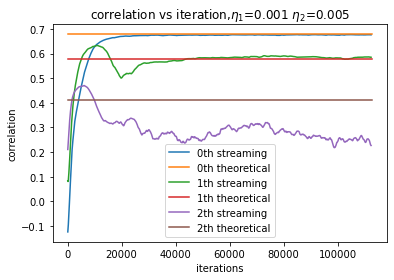
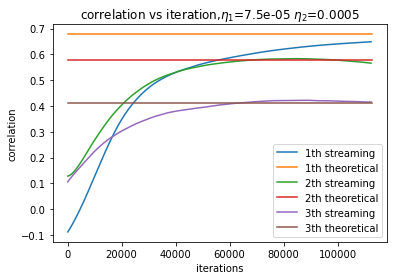
Corrected some plots

diff --git a/geneig.py b/geneig.py
@@ -9,7 +9,7 @@ import numpy as np
 def geneig(X,Y,n,eta_1=0.0005,eta_2=0.005):
     
     length,m = X.shape
-    
+    np.random.seed(999999999)
     V = np.random.randn(m*2,n)
     V,_ = np.linalg.qr(V, mode='reduced')
     U = np.random.randn(m*2,n)
@@ -28,6 +28,67 @@ def geneig(X,Y,n,eta_1=0.0005,eta_2=0.005):
             c11 = np.outer(x,x)
             c22 = np.outer(y,y)
     
+            #initialize A
+            A = np.zeros((m*2,m*2))
+            A[:m,m:] = c12
+            A[m:,:m] = c12.T
+            
+            #initialize B
+            B = np.zeros((m*2,m*2))
+            B[0:m,0:m] = c11
+            B[m:m*2,m:m*2] = c22
+            
+            #two-step process
+            U -= eta_2*(B@U-A@V)
+            V += eta_1*U
+            '''
+            V,r = np.linalg.qr(V, mode='reduced')
+            V = V*np.sign(np.diagonal(r))#avoid switching sign in QR
+            '''
+            a = V[:m]
+            a,r = np.linalg.qr(a, mode='reduced')
+            a = a*np.sign(np.diagonal(r))#avoid switching sign in QR
+            
+            b = V[m:]
+            b,r = np.linalg.qr(b, mode='reduced')
+            b = b*np.sign(np.diagonal(r))#avoid switching sign in QR
+            V[:m] = a
+            V[m:] = b
+            
+        
+        a = V[:m]
+        b = V[m:]
+        X_s = X@a
+        Y_s = Y@b
+        
+        for k in range(n):
+            corr_mat[j,k] = np.corrcoef(X_s.T,Y_s.T)[n+k,k]
+
+    return a,b,corr_mat
+
+def geneig_modified(X,Y,n,eta_1=0.0005,eta_2=0.005):
+    
+    length,m = X.shape
+    np.random.seed(999999999)
+    V = np.random.randn(m*2,n)
+    V,_ = np.linalg.qr(V, mode='reduced')
+    U = np.random.randn(m*2,n)
+    U,_ = np.linalg.qr(U, mode='reduced')
+    
+    corr_mat = np.zeros((length//100-4,n))
+    
+    for j in range(length//100-4):
+        for i in range(100):
+            
+            ind = j*100+i
+            x = X[ind:ind+10,:]
+            y = Y[ind:ind+10,:]
+            
+            #cov matrix
+            c12 = x.T@y/10
+            c11 = x.T@x/10
+            c22 = y.T@y/10
+            
             #initialize A
             A = np.zeros((m*2,m*2))
             A[:m,m:] = c12

diff --git a/CCA-main.py b/CCA-main.py
@@ -10,7 +10,7 @@ from geneig import *
 import numpy as np
 import matplotlib.pyplot as plt
 from sklearn.cross_decomposition import CCA
-
+'''
 x = np.load('balanced-MNIST.npy')
 x = x/255
 x = (x - x.mean(axis=0))
@@ -29,7 +29,7 @@ Y = latents + np.random.normal(size=6 * length).reshape((length, 6))*0.5
 
 X = X-X.mean(axis=0)
 Y = Y-Y.mean(axis=0)
-'''
+
 '''
 plt.plot(X[:200,0],label='X[:200,0]')
 plt.plot(Y[:200,0],label='Y[:200,0]')
@@ -71,16 +71,16 @@ plt.show()
 '''
 
 n=3
-for eta1 in [0.0001,0.0005,0.001]:
-    for eta2 in [0.001,0.005,0.01]:
+for eta1 in [0.00015,0.00075,0.0035]:
+    for eta2 in [0.001,0.005,0.025]:
         a,b,corr_list = geneig(X,Y,n,eta1,eta2)
         cca = CCA(n_components=n)
         cca.fit(X, Y)
         X_c, Y_c = cca.transform(X, Y)
         
         for i in range(n):
-            plt.plot(np.array(list(range(1,length//100+1-4)))*100,corr_list[:,i],label='{}th streaming'.format(i))
-            plt.plot([100,length],[np.corrcoef(X_c.T,Y_c.T)[n+i,i],np.corrcoef(X_c.T,Y_c.T)[n+i,i]],label='{}th theoretical'.format(i))
+            plt.plot(np.array(list(range(1,length//100+1-4)))*100,corr_list[:,i],label='{}th streaming'.format(i+1))
+            plt.plot([100,length],[np.corrcoef(X_c.T,Y_c.T)[n+i,i],np.corrcoef(X_c.T,Y_c.T)[n+i,i]],label='{}th theoretical'.format(i+1))
             plt.xlabel('iterations')
             plt.ylabel('correlation')
             plt.title('correlation vs iteration,$\eta_1$={} $\eta_2$={}'.format(eta1,eta2))
